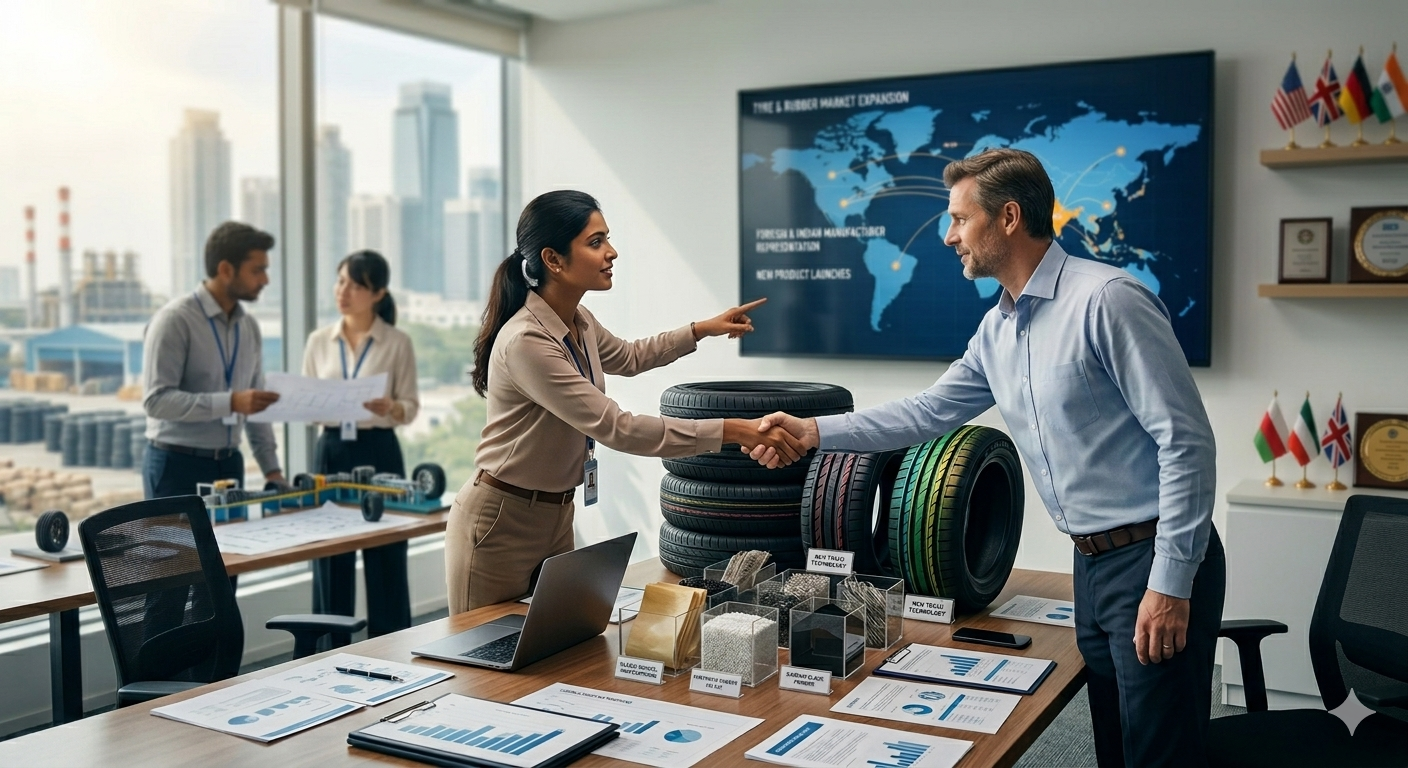
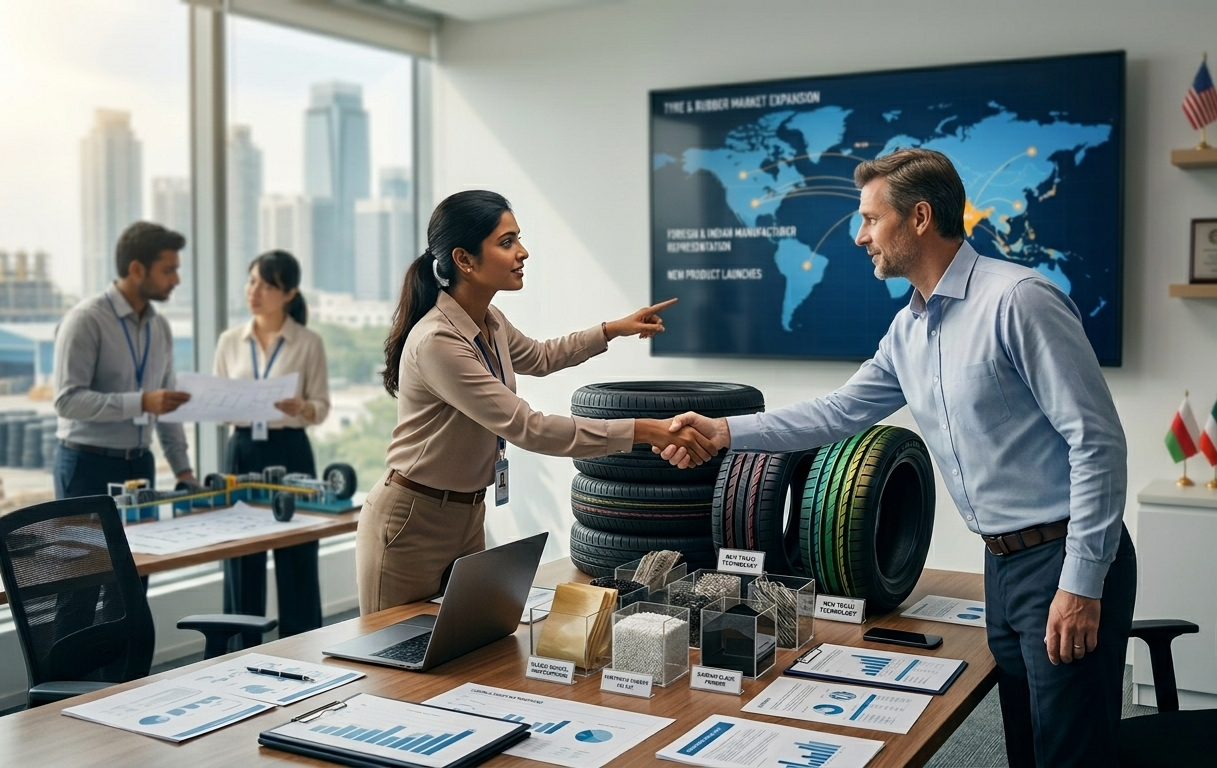
Remove theme-service8.jpg and use theme-service 12.png
- Deleted old theme-service8.jpg file
- Updated HTML to reference theme-service 12.png
- Business Transaction Facilitation service now uses new image

diff --git a/index.html b/index.html
@@ -789,7 +789,7 @@
                     </div>
                 </div>
                 <div class="service-card">
-                    <img src="images/theme-service8.jpg" alt="Service" style="width:100%; height:200px; object-fit:cover;">
+                    <img src="images/theme-service 12.png" alt="Service" style="width:100%; height:200px; object-fit:cover;">
                     <div class="service-card-content">
                         <h3>Business Transaction Facilitation</h3>
                         <p>Facilitating the business transactions between buyer and seller by timely securing enquiries, price negotiation and coordination with the principals and smoothening the process through our assistance in pre and post shipment documentation on a regular basis.</p>
